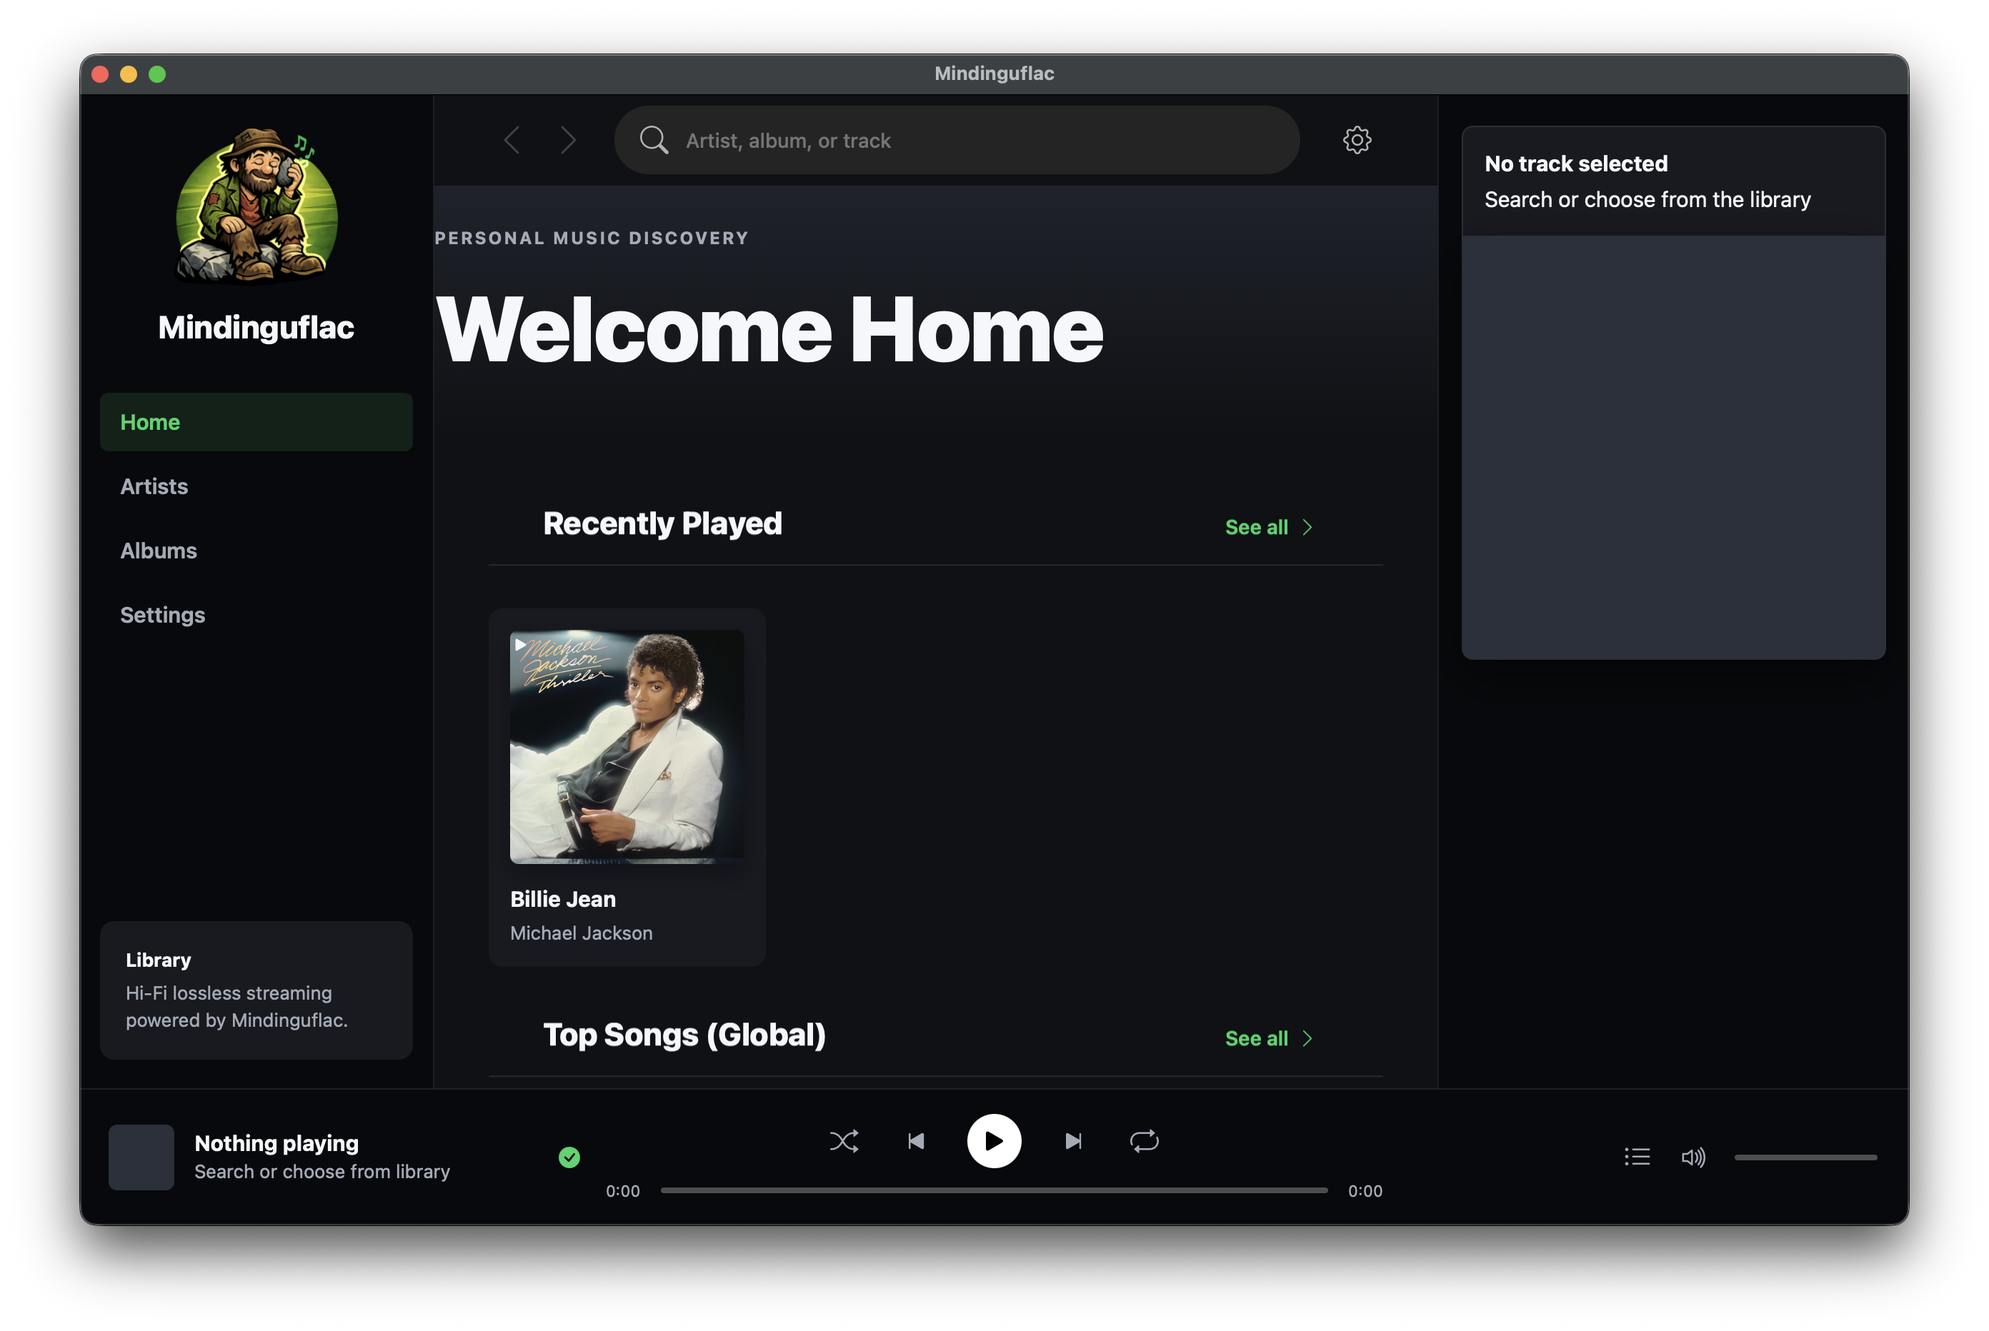
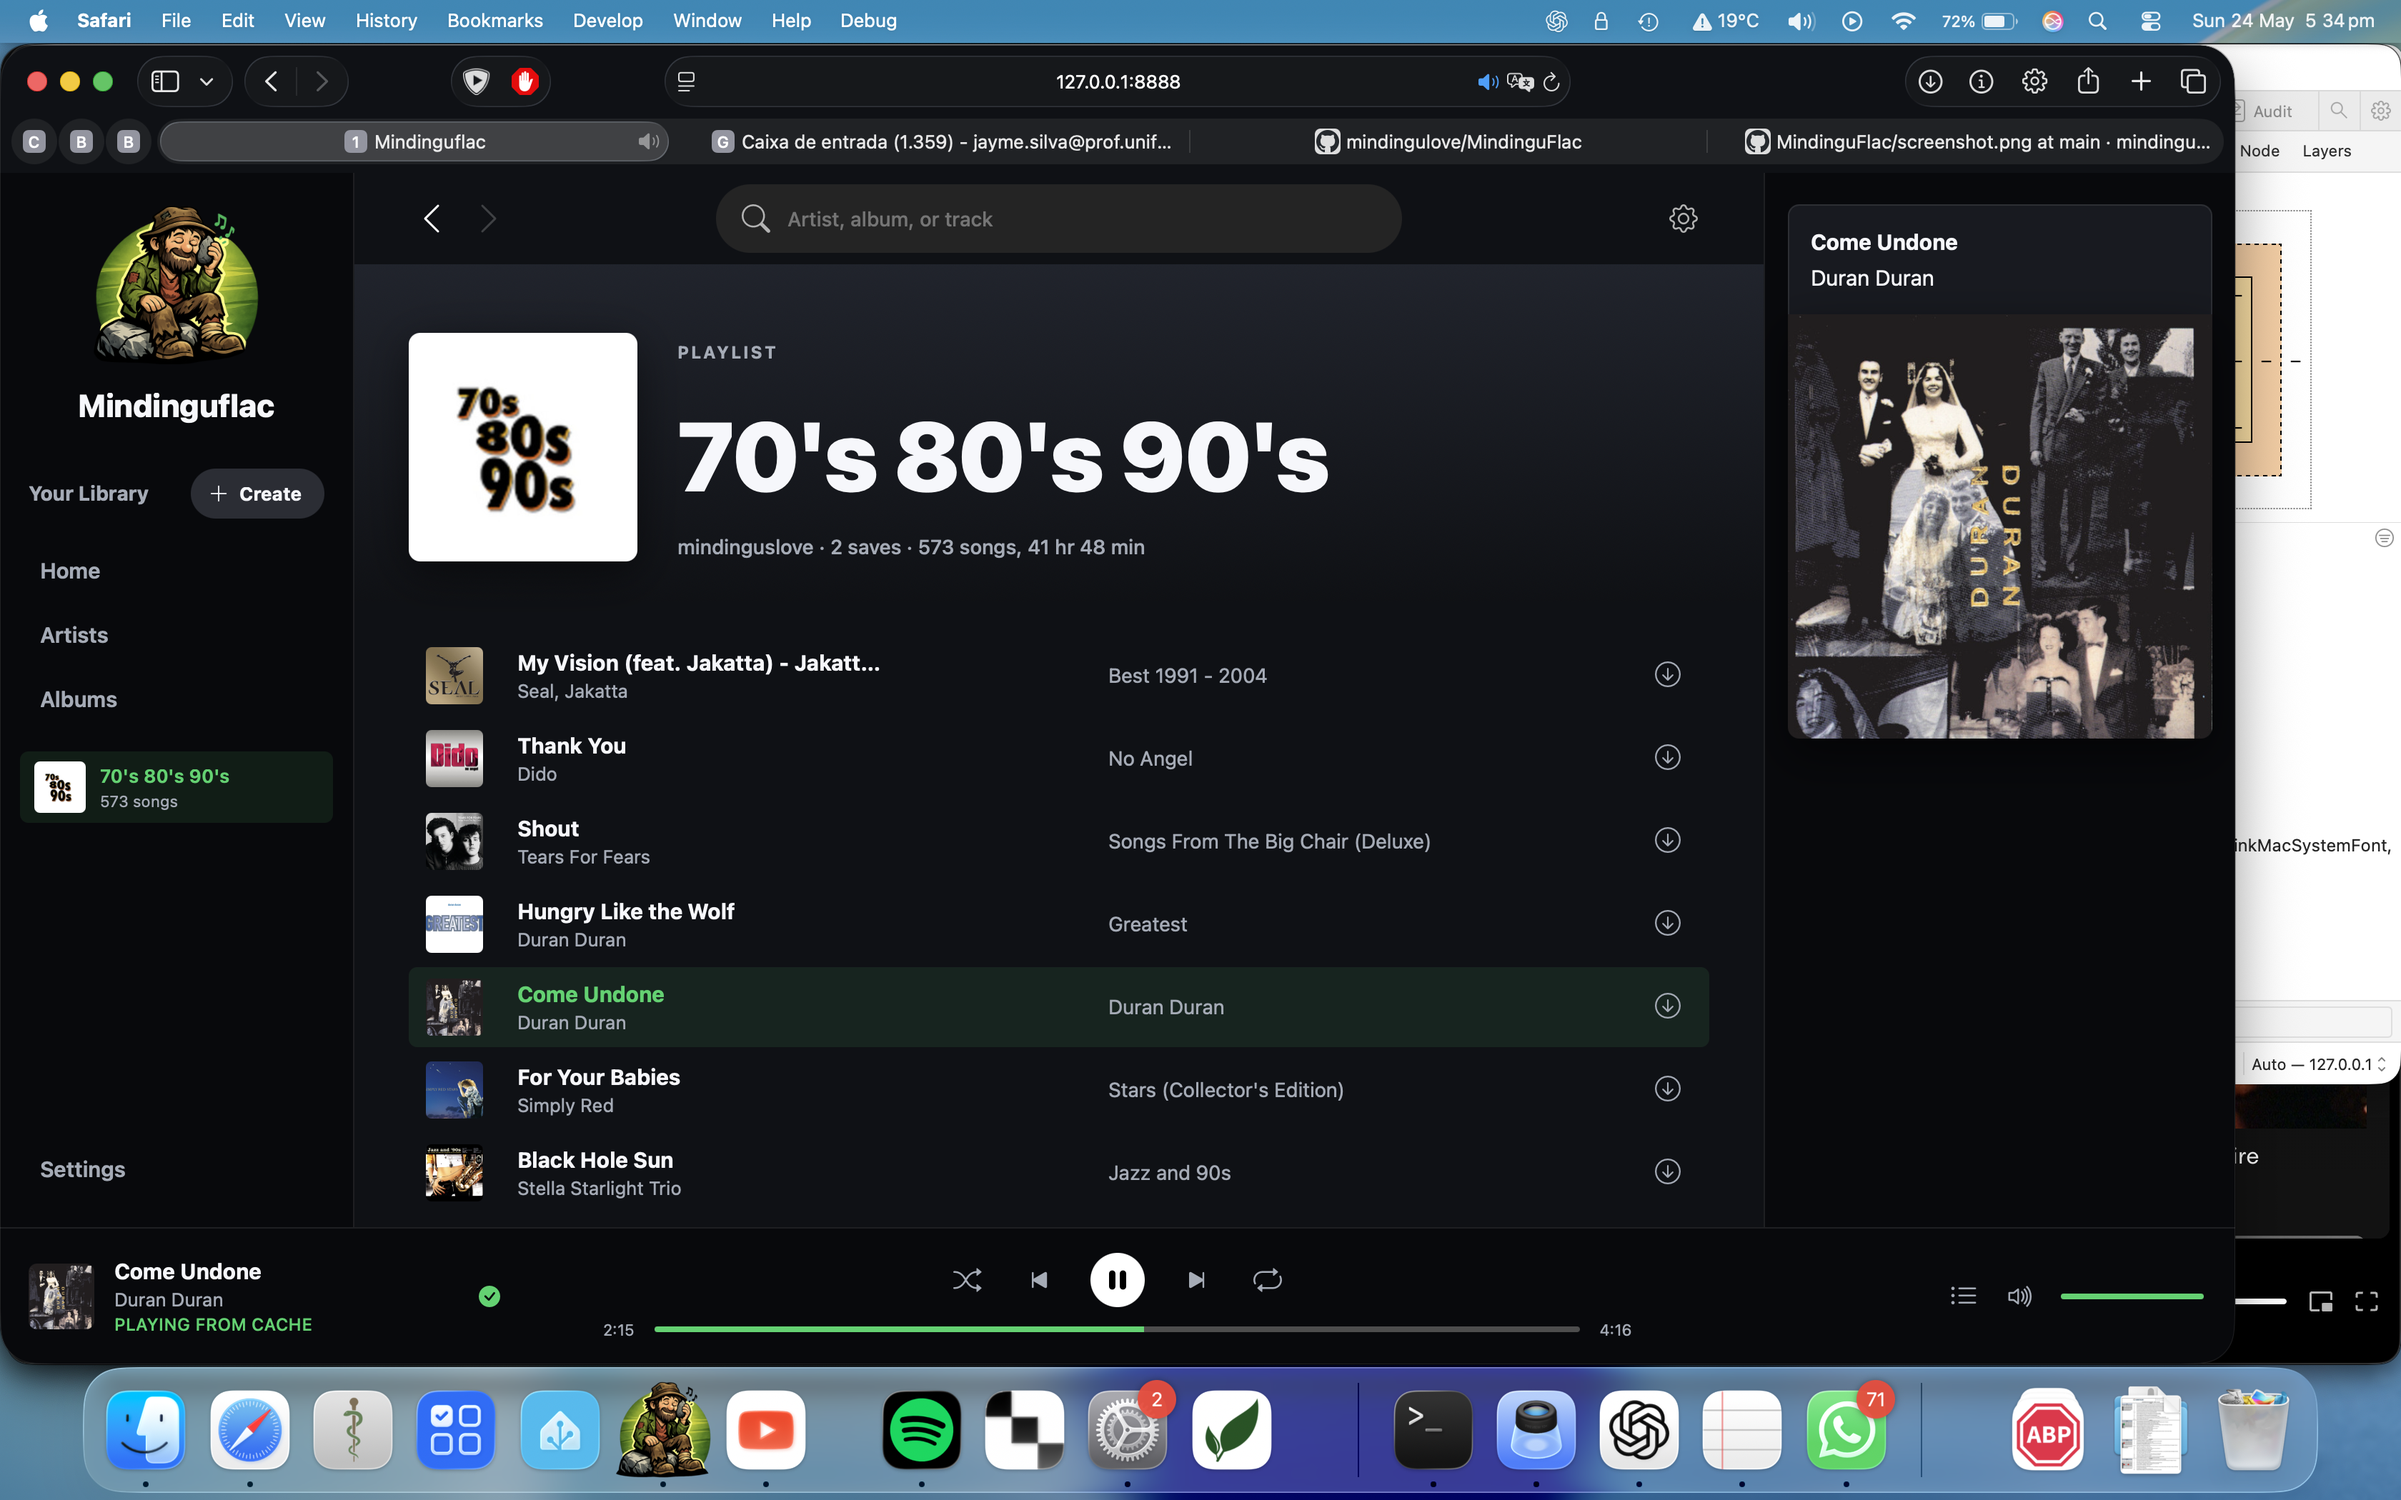
Add per-service quality options in settings and update screenshot
Quality select in settings now filters to the options available for the
selected service (Tidal/Deezer/Qobuz/Amazon/Apple Music/SoundCloud/YouTube),
updating live on service change. Fixes player download icon spacing.

diff --git a/static/app.js b/static/app.js
@@ -38,6 +38,57 @@ const SERVICE_LABELS = {
   youtube: "YouTube",
 };
 
+const SERVICE_QUALITIES = {
+  tidal: [
+    { value: "DOLBY_ATMOS",    label: "Dolby Atmos" },
+    { value: "HI_RES_LOSSLESS",label: "Hi-Res Lossless" },
+    { value: "LOSSLESS",       label: "Lossless (FLAC/CD)" },
+    { value: "HIGH",           label: "High (320kbps)" },
+    { value: "LOW",            label: "Low (96-128kbps)" },
+  ],
+  deezer: [
+    { value: "LOSSLESS", label: "Lossless (FLAC)" },
+    { value: "HIGH",     label: "High (320kbps)" },
+    { value: "256",      label: "256kbps" },
+    { value: "192",      label: "192kbps" },
+    { value: "128",      label: "128kbps" },
+  ],
+  qobuz: [
+    { value: "27", label: "Hi-Res Max" },
+    { value: "7",  label: "Hi-Res" },
+    { value: "6",  label: "CD (FLAC)" },
+  ],
+  amazon: [
+    { value: "LOSSLESS", label: "FLAC / ALAC" },
+  ],
+  apple_music: [
+    { value: "256", label: "256kbps AAC" },
+    { value: "192", label: "192kbps AAC" },
+    { value: "128", label: "128kbps AAC" },
+  ],
+  soundcloud: [
+    { value: "HIGH", label: "High (256kbps)" },
+    { value: "LOW",  label: "Low (128kbps)" },
+  ],
+  youtube: [
+    { value: "HIGH", label: "High (256kbps)" },
+    { value: "LOW",  label: "Low (128kbps)" },
+  ],
+};
+
+function updateQualityOptions(service, currentQuality) {
+  const sel = $("defaultQuality");
+  if (!sel) return;
+  const opts = SERVICE_QUALITIES[service] || SERVICE_QUALITIES.tidal;
+  sel.innerHTML = opts.map(o => `<option value="${o.value}">${o.label}</option>`).join("");
+  // Keep current quality if valid for this service, else default to first
+  if (currentQuality && opts.some(o => o.value === currentQuality)) {
+    sel.value = currentQuality;
+  } else {
+    sel.value = opts[0].value;
+  }
+}
+
 const STORAGE_KEYS = {
   volume: "streambox.volume",
 };
@@ -1168,7 +1219,8 @@ async function renderSettings() {
   $("cacheDir").value = state.settings.cache_dir || "";
   $("musicDir").value = state.settings.music_dir || "";
   $("downloadService").value = state.settings.download_service || "tidal";
-  $("defaultQuality").value = state.settings.default_quality || "LOSSLESS";
+  updateQualityOptions($("downloadService").value, state.settings.default_quality || "LOSSLESS");
+  $("downloadService").onchange = () => updateQualityOptions($("downloadService").value, $("defaultQuality").value);
   $("cacheCleanupFrequency").value = state.settings.cache_cleanup_frequency || "never";
   $("demoMusicIndexer").checked = !!state.settings.demo_music_indexer;
   $("strictTitleMatch").checked = !!state.settings.strict_title_match;

diff --git a/static/index.html b/static/index.html
@@ -121,16 +121,7 @@
                 <span>Preferred bitrate for streaming and downloads.</span>
               </div>
               <div class="settings-control">
-                <select id="defaultQuality">
-                  <option value="DOLBY_ATMOS">Tidal: Dolby Atmos</option>
-                  <option value="HI_RES_LOSSLESS">Tidal: Hi-Res Lossless</option>
-                  <option value="LOSSLESS">Lossless (FLAC/CD)</option>
-                  <option value="HIGH">High (320kbps)</option>
-                  <option value="LOW">Low (96-128kbps)</option>
-                  <option value="27">Qobuz: Hi-Res Max</option>
-                  <option value="7">Qobuz: Hi-Res</option>
-                  <option value="6">Qobuz: CD</option>
-                </select>
+                <select id="defaultQuality"></select>
               </div>
             </div>
           </div>

diff --git a/static/styles.css b/static/styles.css
@@ -1084,7 +1084,7 @@ h2 { font-size: 22px; margin: 0; font-weight: 800; }
   flex-direction: column;
   gap: 2px;
   min-width: 0;
-  flex: 1;
+  flex: 0 1 auto;
 }
 
 #playerArtist {
